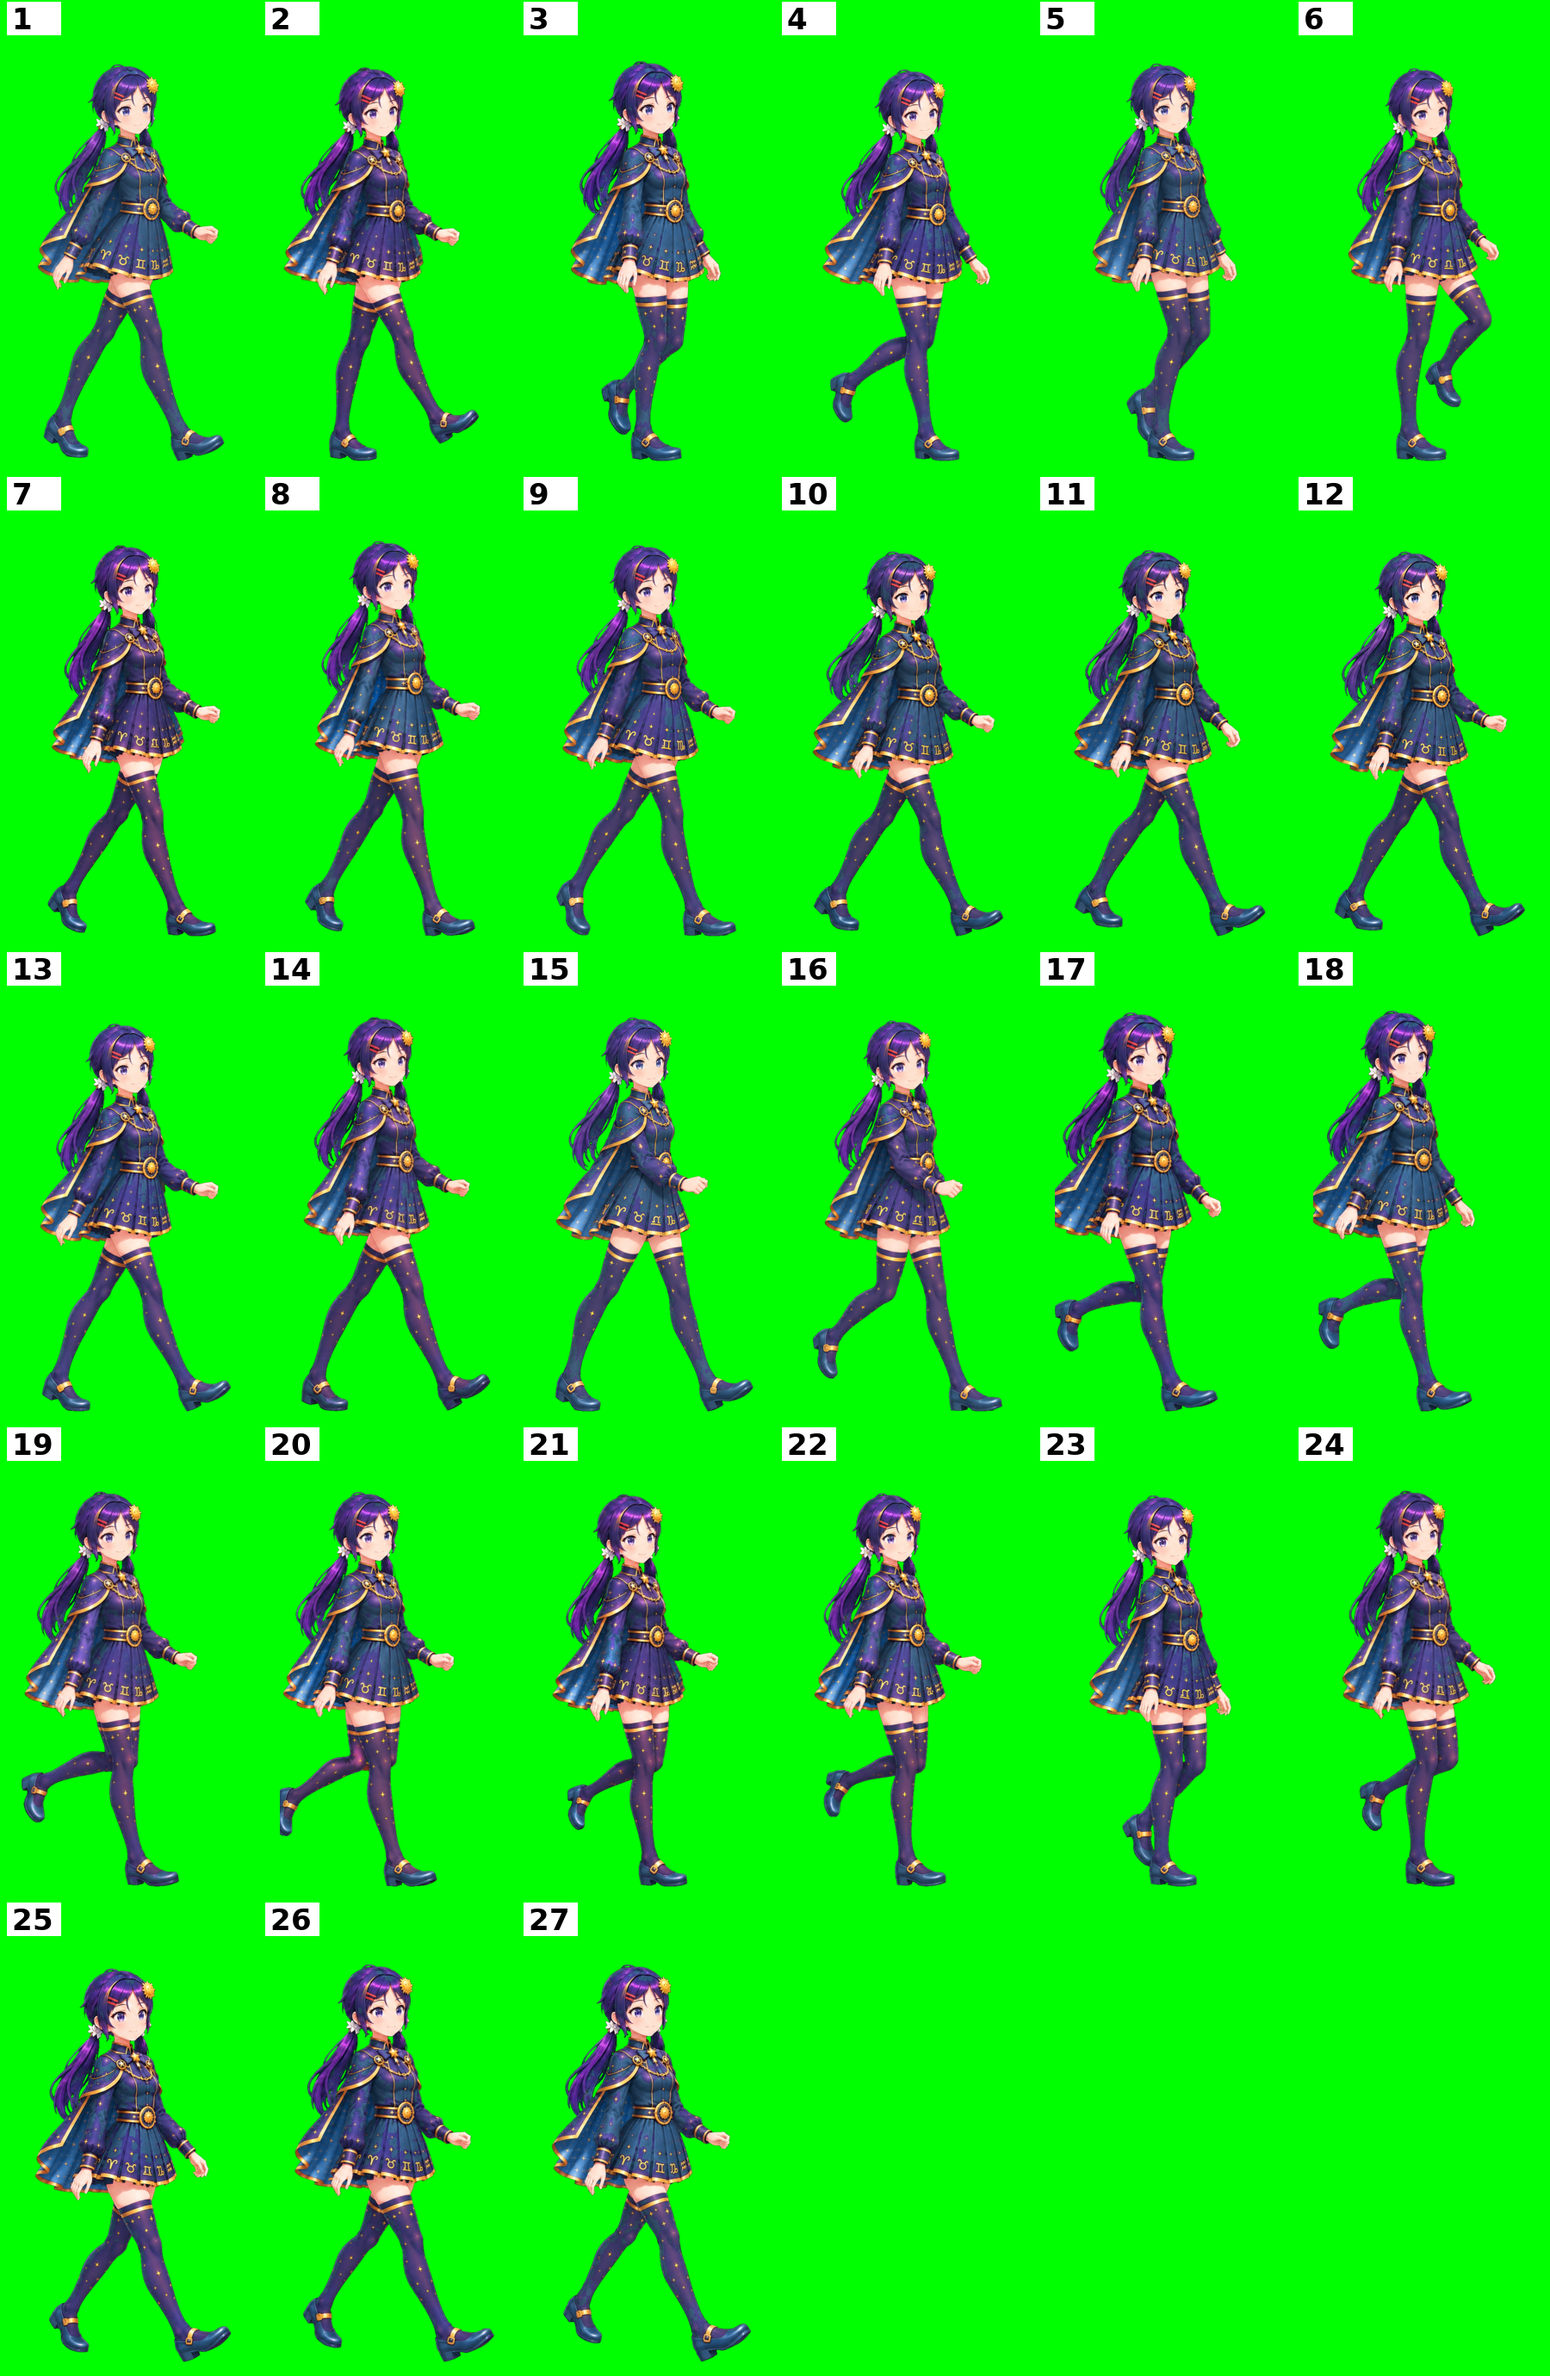
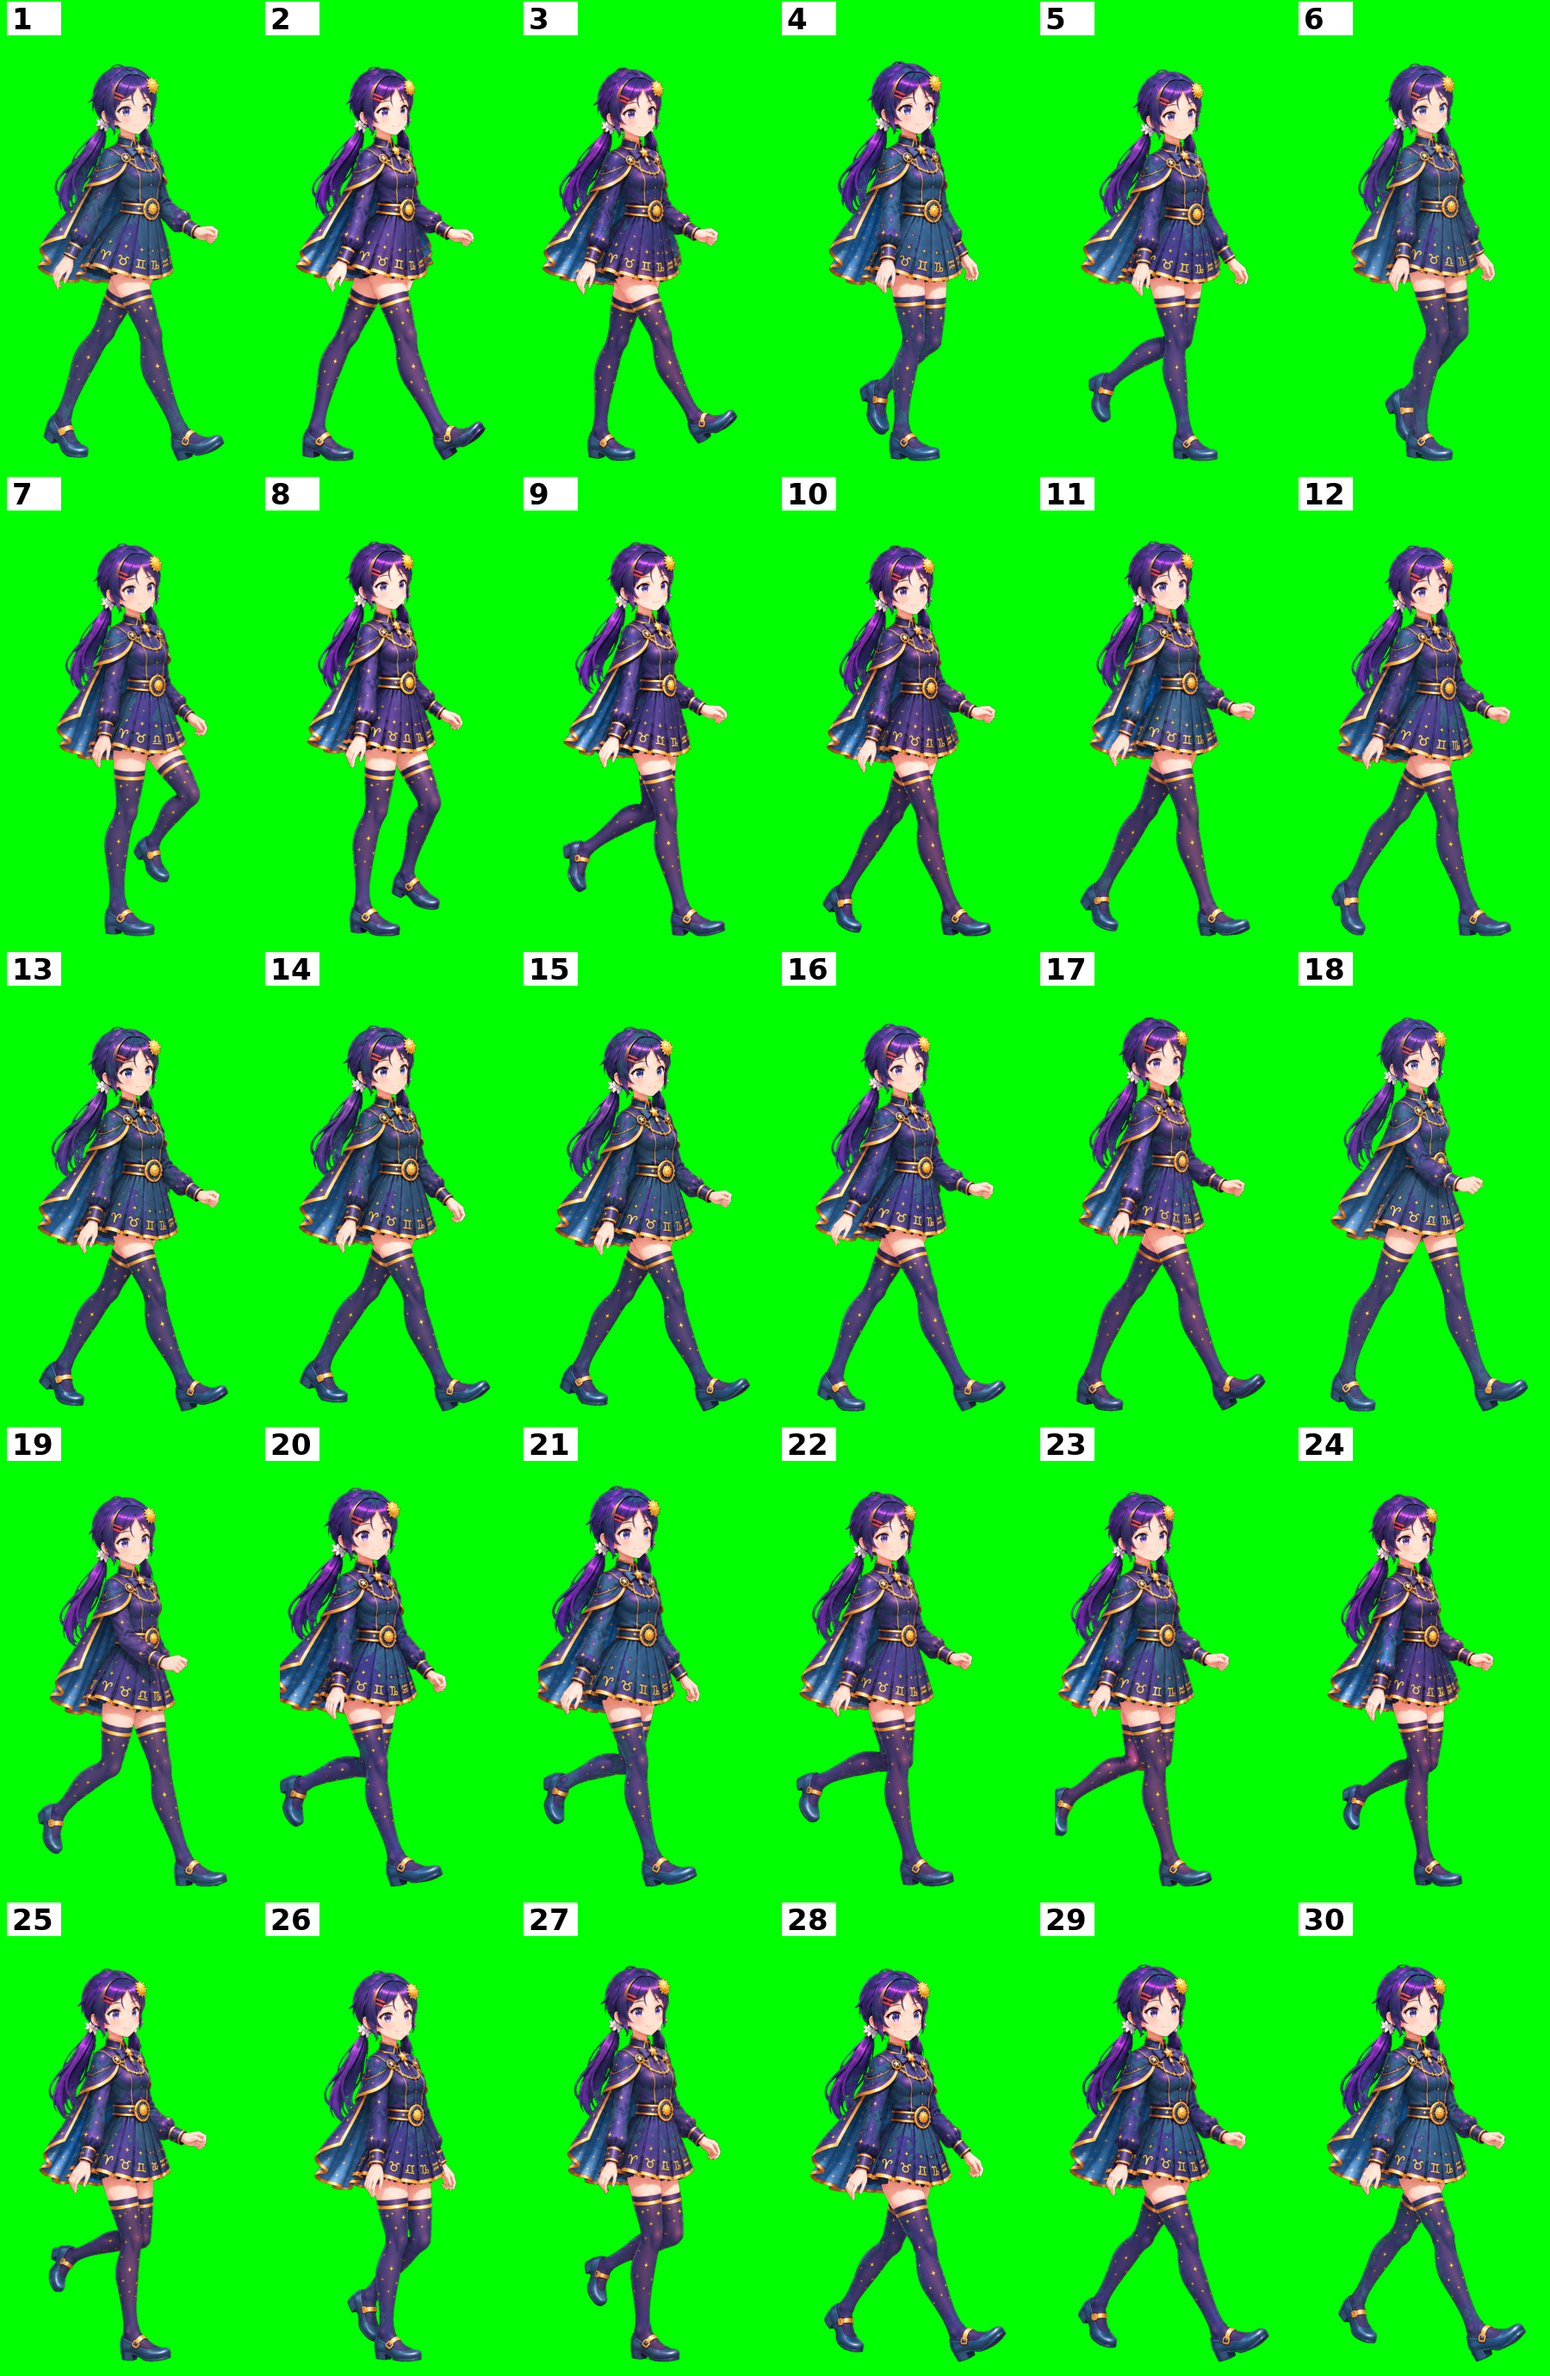
51-mita-craft: ходьба — лист 10 (30 поз)
Claude-Session: https://claude.ai/code/session_012PNwYZXdw6QfqQCMnTcc5j

diff --git a/projects/51-mita-craft/tools/make_frames.py b/projects/51-mita-craft/tools/make_frames.py
@@ -26,7 +26,7 @@ SHEETS = {
     'sweep_k': 'sweep_1 sweep_5 sweep_9', 'sweep_i1': 'sweep_3 sweep_7 sweep_10',
     'walk_k': 'walk_a walk_b walk_c', 'walk_i1': 'walk_ab walk_bc walk_d', 'walk_i2': 'walk_cd walk_da walk_a2',
     'walk_i3': 'walk_x1 walk_x2 walk_x3', 'walk_i4': 'walk_x4 walk_x5 walk_x6', 'walk_i5': 'walk_x7 walk_x8 walk_x9',
-    'walk_i6': 'walk_y1 walk_y2 walk_y3', 'walk_i7': 'walk_y4 walk_y5 walk_y6', 'walk_i8': 'walk_y7 walk_y8 walk_y9', 'walk_i9': 'walk_z1 walk_z2 walk_z3',
+    'walk_i6': 'walk_y1 walk_y2 walk_y3', 'walk_i7': 'walk_y4 walk_y5 walk_y6', 'walk_i8': 'walk_y7 walk_y8 walk_y9', 'walk_i9': 'walk_z1 walk_z2 walk_z3', 'walk_i10': 'walk_z4 walk_z5 walk_z6',
 }
 THIRDS = set()            # бюсты касаются друг друга — режем строго по третям
 CW = 768
